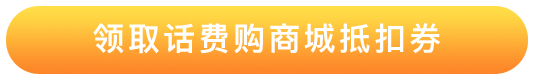
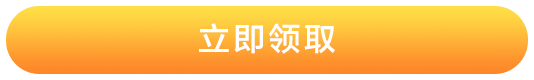
二月充值活动优化：按钮、提示文案、跳转链接

Changed region(s): [[0.1498, 0.275, 0.839, 0.675]]

diff --git a/src/js/main.js b/src/js/main.js
@@ -1,5 +1,5 @@
-//var origin = 'https://capp01.189.cn:6443';  //测试
-var origin = 'https://wapmkt.189.cn:7443';  //生产
+var origin = 'https://capp01.189.cn:6443';  //测试
+//var origin = 'https://wapmkt.189.cn:7443';  //生产
 var ticket = _Utils.getQueryParam('ticket');
 var system = _Utils.getSystemInfo();
 var backLink = origin + '/grep/prizeFebruary/index.html';
@@ -51,7 +51,7 @@ function onBtnGetRechargedClick () {
 }
 function onBtnGetClick () {
     try {
-        trk_wap_jt.trkAppButtonClick("领取话费购商城优惠券","pinganchongzhi-sy-cz-0_1","","","");
+        trk_wap_jt.trkAppButtonClick("立即领取","pinganchongzhi-sy-cz-0_1","","","");
     } catch (error) {}
     getEnvelope();
 }
@@ -70,18 +70,19 @@ function getEnvelope() {
                 case '10000':
                     $('.block-main').attr('class', 'block-main block-main-geted');
                     _Utils.showConfirm({
-                        info: '恭喜您获得话费购商城3元抵扣券',
+                        info: '恭喜您获得话费购商城',
                         tips: '*此抵扣券仅限权益券支付时使用',
-                        okBtnType: 'shopping',
+                        importantInfo: '3元抵扣券',
+                        okBtnType: 'use',
                         onOk: function () {
                             try {
-                                trk_wap_jt.trkAppButtonClick("点击前往话费购商城查看","pinganchongzhi-sy-tanch-0_1","","","");
+                                trk_wap_jt.trkAppButtonClick("前往使用","pinganchongzhi-sy-tanch-0_1","","","");
                             } catch (error) {}
                             goShopingMall();
                         }, 
                         onCancel: function () {
                             try {
-                                trk_wap_jt.trkAppButtonClick("点击前往话费购商城查看-关闭","pinganchongzhi-sy-tanch-0_2","","","");
+                                trk_wap_jt.trkAppButtonClick("前往使用-关闭","pinganchongzhi-sy-tanch-0_2","","","");
                             } catch (error) {}
                         }
                     });
@@ -121,8 +122,8 @@ function onBtnGoShoppingClick () {
     goShopingMall();
 }
 function goShopingMall () {
-    var link = 'https%3a%2f%2fe.189.cn%2fstore%2fexternal%2fredirect.do%3fred%3dhgr%26code%3d%24ticket%24';
-    goH5Page(link, '天翼话费购商城');
+    var link = 'https://e.189.cn/store/wap/newcoupon/index.html?t=huango-hfg#/couponOrder';
+    goH5Page(link, '话费购商城-优惠券列表页');
 }
 function onBanner4To5Click () {
     try {

diff --git a/src/js/utils.js b/src/js/utils.js
@@ -45,6 +45,7 @@ var _Utils = {
       '<div class="confirm">' +
         '<div class="confirm-content">' +
             '<div class="confirm-info"></div>' +
+            '<div class="confirm-importantInfo"></div>' +
             '<div class="confirm-tips"></div>' +
             '<div class="confirm-btn-ok"></div>' +
             '<div class="confirm-btn-cancel"></div>' +
@@ -53,11 +54,13 @@ var _Utils = {
     );
     $('body').append($confirm).css({ overflow: 'hidden' });
     var info = options.info;
+    var importantInfo = options.importantInfo;
     var tips = options.tips;
     var okBtnType = options.okBtnType;
     var onOk = options.onOk;
     var onCancel = options.onCancel;
     $('.confirm-info').text(info);
+    $('.confirm-importantInfo').text(importantInfo);
     $('.confirm-tips').text(tips);
     $('.confirm-btn-ok').addClass('confirm-btn-ok-' + okBtnType).on('click', function () {
       $confirm.remove();

diff --git a/src/css/components.css b/src/css/components.css
@@ -30,6 +30,17 @@
   color: #333333;
 }
 
+.confirm .confirm-content .confirm-importantInfo {
+  display: block;
+  font-size: 0.5rem;
+  font-weight: bold;
+  text-align: center;
+  color: #333333;
+  height: 0.555556rem;
+  line-height: 0.555556rem;
+  margin: -0.555556rem 0 0.083333rem;
+}
+
 .confirm .confirm-content .confirm-tips {
   display: block;
   font-size: 0.333333rem;
@@ -54,6 +65,10 @@
 
 .confirm .confirm-content .confirm-btn-ok.confirm-btn-ok-shopping {
   background-image: url(../images/modal-btn-shopping.png);
+}
+
+.confirm .confirm-content .confirm-btn-ok.confirm-btn-ok-use {
+  background-image: url(../images/modal-btn-use.png);
 }
 
 .confirm .confirm-content .confirm-btn-cancel {

diff --git a/src/sass/components.scss b/src/sass/components.scss
@@ -25,6 +25,16 @@
       text-align: center;
       color: #333333;
     }
+    .confirm-importantInfo {
+      display: block;
+      font-size: 36px;
+      font-weight: bold;
+      text-align: center;
+      color: #333333;
+      height: 40px;
+      line-height: 40px;
+      margin: -40px 0 6px;
+    }
     .confirm-tips {
       display: block;
       font-size: 24px;
@@ -45,6 +55,9 @@
       }
       &.confirm-btn-ok-shopping {
         background-image: url(../images/modal-btn-shopping.png);
+      }
+      &.confirm-btn-ok-use {
+        background-image: url(../images/modal-btn-use.png);
       }
     }
     .confirm-btn-cancel{

diff --git a/src/sass/main.scss b/src/sass/main.scss
@@ -92,7 +92,7 @@ div {
         background-image: url('../images/btn-get.png');
       }
       .btn-go-shopping {
-        background-image: url('../images/modal-btn-shopping.png');
+        background-image: url('../images/btn-shopping.png');
       }
     }
     .block-info {

diff --git a/src/css/main.css b/src/css/main.css
@@ -105,7 +105,7 @@ div {
 }
 
 .wrapper .content .block-main .btn-go-shopping {
-  background-image: url("../images/modal-btn-shopping.png");
+  background-image: url("../images/btn-shopping.png");
 }
 
 .wrapper .content .block-info {
